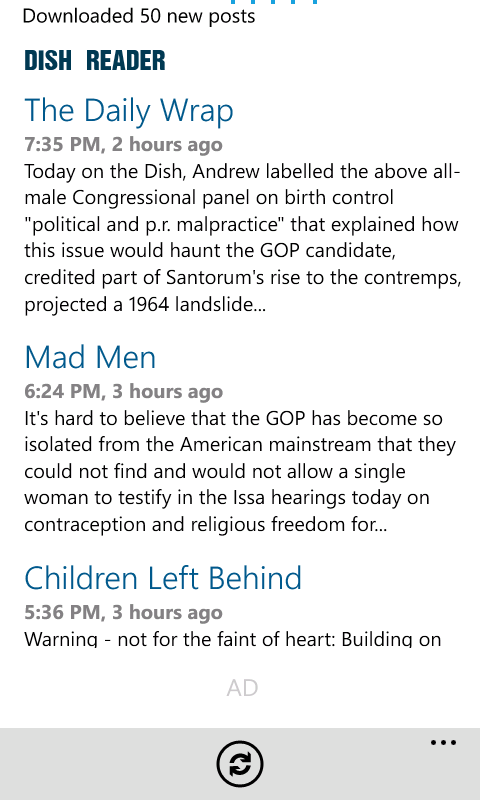
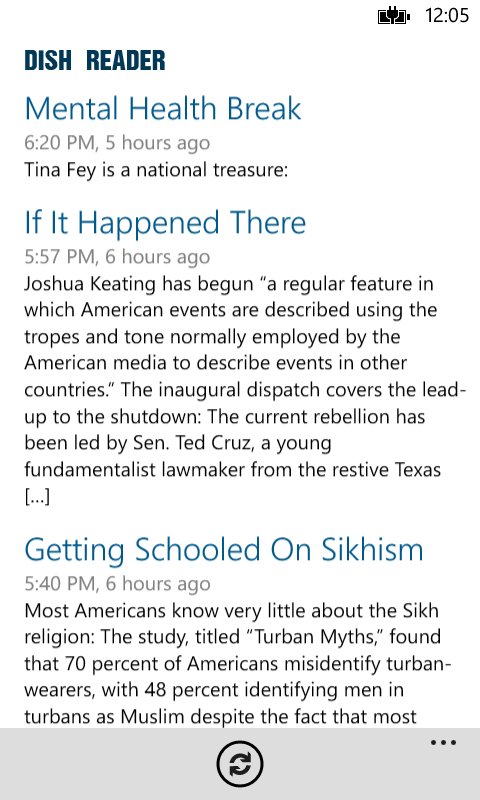
Update sharing, disable ads

diff --git a/DishReaderApp/SharePage.xaml b/DishReaderApp/SharePage.xaml
@@ -1,0 +1,44 @@
+<phone:PhoneApplicationPage
+    x:Class="DishReaderApp.SharePage"
+    xmlns="http://schemas.microsoft.com/winfx/2006/xaml/presentation"
+    xmlns:x="http://schemas.microsoft.com/winfx/2006/xaml"
+    xmlns:phone="clr-namespace:Microsoft.Phone.Controls;assembly=Microsoft.Phone"
+    xmlns:shell="clr-namespace:Microsoft.Phone.Shell;assembly=Microsoft.Phone"
+    xmlns:d="http://schemas.microsoft.com/expression/blend/2008"
+    xmlns:mc="http://schemas.openxmlformats.org/markup-compatibility/2006"
+    xmlns:toolkit="clr-namespace:Microsoft.Phone.Controls;assembly=Microsoft.Phone.Controls.Toolkit"
+    FontFamily="{StaticResource PhoneFontFamilyNormal}"
+    FontSize="{StaticResource PhoneFontSizeNormal}"
+    Foreground="{StaticResource PhoneForegroundBrush}"
+    SupportedOrientations="Portrait" Orientation="Portrait"
+    mc:Ignorable="d"
+    shell:SystemTray.IsVisible="True"
+    Style="{StaticResource TransitionPageStyle}"
+    toolkit:TiltEffect.IsTiltEnabled="True">
+
+    <!--LayoutRoot is the root grid where all page content is placed-->
+    <Grid x:Name="LayoutRoot" Background="Transparent">
+        <Grid.RowDefinitions>
+            <RowDefinition Height="Auto"/>
+            <RowDefinition Height="*"/>
+        </Grid.RowDefinitions>
+
+        <StackPanel x:Name="TitlePanel" Grid.Row="0" Margin="12,17,0,28">
+            <TextBlock x:Name="ApplicationTitle" Text="{Binding Source={StaticResource Strings}, Path=Resources.PageTitleShare}" Style="{StaticResource PhoneTextNormalStyle}"/>
+        </StackPanel>
+
+        <!--ContentPanel - place additional content here-->
+        <Grid x:Name="ContentPanel" Grid.Row="1" Margin="12,0,12,0">
+            <ListBox x:Name="ShareListBox" Margin="0,-6,-12,0" ItemsSource="{Binding ShareSources}" SelectionChanged="ShareListBox_OnSelectionChanged">
+                <ListBox.ItemTemplate>
+                    <DataTemplate>
+                        <StackPanel Margin="12,18,6,18" >
+                            <TextBlock Text="{Binding}" TextWrapping="Wrap" Style="{StaticResource PhoneTextExtraLargeStyle}" Margin="0" />
+                        </StackPanel>
+                    </DataTemplate>
+                </ListBox.ItemTemplate>
+            </ListBox>
+        </Grid>
+    </Grid>
+
+</phone:PhoneApplicationPage>

diff --git a/DishReaderApp/DetailsPage.xaml b/DishReaderApp/DetailsPage.xaml
@@ -21,18 +21,15 @@
             <RowDefinition Height="*"/>
         </Grid.RowDefinitions>
 
-        <phone:WebBrowser Grid.Row="0" x:Name="webBrowser1" IsScriptEnabled="True" Margin="0" />
+        <phone:WebBrowser Grid.Row="0" x:Name="webBrowser1" IsScriptEnabled="True" Margin="0" Source="{Binding Url}" />
     </Grid>
 
     <phone:PhoneApplicationPage.ApplicationBar>
         <shell:ApplicationBar IsVisible="True" IsMenuEnabled="True">
-            <shell:ApplicationBarIconButton x:Name="buttonEmail" IconUri="Images/appbar.feature.email.rest.png" Text="email" Click="buttonEmail_Click" />
+            <shell:ApplicationBarIconButton x:Name="buttonShare" IconUri="Images/appbar.share.rest.png" Text="share" Click="buttonShare_Click" />
             <shell:ApplicationBarIconButton x:Name="buttonRefresh" IconUri="Images/appbar.refresh.rest.png" Text="refresh" Click="buttonRefresh_Click" />
             <shell:ApplicationBarIconButton x:Name="buttonPrevious" IconUri="Images/appbar.back.rest.png" Text="previous" Click="buttonPrevious_Click" />
             <shell:ApplicationBarIconButton x:Name="buttonNext" IconUri="Images/appbar.next.rest.png" Text="next" Click="buttonNext_Click" />
-            <shell:ApplicationBar.MenuItems>
-                <shell:ApplicationBarMenuItem Text="share..." Click="menuItemShare_Click"/>
-            </shell:ApplicationBar.MenuItems>
         </shell:ApplicationBar>
     </phone:PhoneApplicationPage.ApplicationBar>
 

diff --git a/DishReaderApp/MainPage.xaml b/DishReaderApp/MainPage.xaml
@@ -41,7 +41,7 @@
         </ListBox>
 
         <!--<Image Grid.Row="2" Source="/Images/ad.png"/>-->
-        <my:AdControl Grid.Row="2" x:Name="AdBox" AdUnitId="79784" ApplicationId="bbb9b56b-6a13-4ef6-8308-f5fb22d2ab77" Margin="0" Width="480" Height="80" Style="{StaticResource AdControlStyle1}"/>
+        <!--<my:AdControl Grid.Row="2" x:Name="AdBox" AdUnitId="79784" ApplicationId="bbb9b56b-6a13-4ef6-8308-f5fb22d2ab77" Margin="0" Width="480" Height="80" Style="{StaticResource AdControlStyle1}"/>-->
     </Grid>
  
     <phone:PhoneApplicationPage.ApplicationBar>

diff --git a/DishReaderApp/DetailsPage.xaml.cs b/DishReaderApp/DetailsPage.xaml.cs
@@ -87,45 +87,31 @@ namespace DishReaderApp
             base.OnNavigatedFrom(e);
         }
 
-        private void buttonEmail_Click(object sender, EventArgs e)
+        private void buttonShare_Click(object sender, EventArgs e)
         {
-            try
-            {
-                var context = (FeedItemViewModel)this.DataContext;
-                Uri uri = webBrowser1.Source;
-                string url = uri != null ? uri.AbsoluteUri : context.Url.AbsolutePath;
+            var context = this.DataContext as FeedItemViewModel;
+            if (context == null)
+                return;
 
-                EmailComposeTask task = new EmailComposeTask();
-                task.Subject = context.Title;
-                task.Body = string.Format("{0}\n\n{1}", context.Summary, url);
-                task.To = string.Empty;
-                task.Show();
-            }
-            catch
+            App.ViewModel.Item = new ShareViewModel
             {
-                // prevent exceptions from double-click
-            }
-        }
+                Url = context.Url.AbsoluteUri,
+                Title = context.Title,
+                Summary = context.Summary
+            };
 
-        private void menuItemShare_Click(object sender, EventArgs e)
-        {
-            try
+            var sharePageUri = new Uri("/SharePage.xaml", UriKind.Relative);
+            Dispatcher.BeginInvoke(() =>
             {
-                var context = (FeedItemViewModel)this.DataContext;
-                Uri url = webBrowser1.Source ?? context.Url;
-
-                var task = new ShareLinkTask()
+                try
                 {
-                    Title = context.Title,
-                    Message = context.Summary,
-                    LinkUri = url
-                };
-                task.Show();
-            }
-            catch (Exception)
-            {
-                // fast-clicking can result in exception, so we just handle it
-            }
+                    NavigationService.Navigate(sharePageUri);
+                }
+                catch (Exception)
+                {
+                    // prevent double-click errors
+                }
+            });
         }
 
         private void buttonRefresh_Click(object sender, EventArgs e)
@@ -149,7 +135,6 @@ namespace DishReaderApp
             {
                 currentIndex = index;
                 DataContext = App.ViewModel.AllFeedItems[currentIndex];
-                webBrowser1.Source = ((FeedItemViewModel)DataContext).Url;
                 EnableOrDisableNavigation(currentIndex);
 
                 // item should not be highlighted anymore

diff --git a/DishReaderApp/Resources/Strings.Designer.cs b/DishReaderApp/Resources/Strings.Designer.cs
@@ -1,7 +1,7 @@
 //------------------------------------------------------------------------------
 // <auto-generated>
 //     This code was generated by a tool.
-//     Runtime Version:4.0.30319.239
+//     Runtime Version:4.0.30319.32559
 //
 //     Changes to this file may cause incorrect behavior and will be lost if
 //     the code is regenerated.
@@ -295,11 +295,56 @@ namespace DishReaderApp.Resources {
         }
         
         /// <summary>
+        ///   Looks up a localized string similar to SHARE.
+        /// </summary>
+        public static string PageTitleShare {
+            get {
+                return ResourceManager.GetString("PageTitleShare", resourceCulture);
+            }
+        }
+        
+        /// <summary>
         ///   Looks up a localized string similar to Please rate and comment on this app in Marketplace.
         /// </summary>
         public static string Rate {
             get {
                 return ResourceManager.GetString("Rate", resourceCulture);
+            }
+        }
+        
+        /// <summary>
+        ///   Looks up a localized string similar to Clipboard.
+        /// </summary>
+        public static string ShareClipboard {
+            get {
+                return ResourceManager.GetString("ShareClipboard", resourceCulture);
+            }
+        }
+        
+        /// <summary>
+        ///   Looks up a localized string similar to Email.
+        /// </summary>
+        public static string ShareEmail {
+            get {
+                return ResourceManager.GetString("ShareEmail", resourceCulture);
+            }
+        }
+        
+        /// <summary>
+        ///   Looks up a localized string similar to Social networks.
+        /// </summary>
+        public static string ShareSocialNetwork {
+            get {
+                return ResourceManager.GetString("ShareSocialNetwork", resourceCulture);
+            }
+        }
+        
+        /// <summary>
+        ///   Looks up a localized string similar to Text message.
+        /// </summary>
+        public static string ShareTextMessaging {
+            get {
+                return ResourceManager.GetString("ShareTextMessaging", resourceCulture);
             }
         }
         

diff --git a/DishReaderApp/ShareHelper.cs b/DishReaderApp/ShareHelper.cs
@@ -1,0 +1,70 @@
+using System;
+using System.Windows;
+using DishReaderApp.ViewModels;
+using Microsoft.Phone.Tasks;
+
+namespace DishReaderApp
+{
+    static internal class ShareHelper
+    {
+        internal static void ShareViaEmail(ShareViewModel model)
+        {
+            try
+            {
+                var task = new EmailComposeTask
+                {
+                    Subject = model.Title,
+                    Body = string.Format("{0}\n\n{1}", model.Summary, model.Url)
+                };
+                task.Show();
+            }
+            catch (Exception)
+            {
+                // fast-clicking can result in exception, so we just handle it
+            }
+        }
+
+        internal static void ShareViaSocial(ShareViewModel model)
+        {
+            try
+            {
+                var task = new ShareLinkTask()
+                {
+                    Title = model.Title,
+                    Message = model.Title,
+                    LinkUri = new Uri(model.Url, UriKind.Absolute)
+                };
+                task.Show();
+            }
+            catch (Exception)
+            {
+                // fast-clicking can result in exception, so we just handle it
+            }
+        }
+
+        internal static void ShareViaSms(ShareViewModel model)
+        {
+            try
+            {
+                var task = new SmsComposeTask()
+                {
+                    Body = model.Title + "\n" + model.Url
+                };
+                task.Show();
+            }
+            catch (Exception)
+            {
+                // fast-clicking can result in exception, so we just handle it
+            }
+        }
+
+        internal static void ShareViaClipBoard(ShareViewModel model)
+        {
+            string text = model.Title + "\n" + model.Url;
+            if (MessageBox.Show(text, "Copy to Clipboard?", MessageBoxButton.OKCancel) == MessageBoxResult.OK)
+            {
+                Clipboard.SetText(text);
+            }
+        }
+    }
+}

diff --git a/DishReaderApp/SharePage.xaml.cs b/DishReaderApp/SharePage.xaml.cs
@@ -1,0 +1,45 @@
+using System.Collections.Generic;
+using System.Windows.Controls;
+using DishReaderApp;
+using DishReaderApp.Resources;
+using Microsoft.Phone.Controls;
+
+namespace DishReaderApp
+{
+    public partial class SharePage : PhoneApplicationPage
+    {
+        public List<string> ShareSources = new List<string>
+        {
+            Strings.ShareEmail,
+            Strings.ShareSocialNetwork,
+            Strings.ShareTextMessaging,
+            Strings.ShareClipboard
+        };
+
+        public SharePage()
+        {
+            InitializeComponent();
+            ShareListBox.ItemsSource = ShareSources;
+        }
+
+        private void ShareListBox_OnSelectionChanged(object sender, SelectionChangedEventArgs e)
+        {
+            var selectedItem = ShareListBox.SelectedItem as string;
+
+            if (selectedItem == null)
+                return;
+
+            var item = App.ViewModel.Item;
+            if (selectedItem == Strings.ShareEmail)
+                ShareHelper.ShareViaEmail(item);
+            else if (selectedItem == Strings.ShareSocialNetwork)
+                ShareHelper.ShareViaSocial(item);
+            else if (selectedItem == Strings.ShareTextMessaging)
+                ShareHelper.ShareViaSms(item);
+            else if (selectedItem == Strings.ShareClipboard)
+                ShareHelper.ShareViaClipBoard(item);
+
+            ShareListBox.SelectedIndex = -1;
+        }
+    }
+}

diff --git a/DishReaderApp/ViewModels/AllFeedItemsViewModel.cs b/DishReaderApp/ViewModels/AllFeedItemsViewModel.cs
@@ -15,6 +15,7 @@ namespace DishReaderApp.ViewModels
     {
         private readonly FeedRepository feedRepository = new FeedRepository(new Uri(@"http://feeds.feedburner.com/andrewsullivan/rApM"));
 
+        public ShareViewModel Item { get; set; }
         public ObservableCollection<FeedItemViewModel> AllFeedItems { get; private set; }
         public bool IsDataLoaded { get; set; }
         public DateTime LastUpdated { get; set; }

diff --git a/DishReaderApp/Properties/AssemblyInfo.cs b/DishReaderApp/Properties/AssemblyInfo.cs
@@ -31,6 +31,6 @@ using System.Resources;
 //
 // You can specify all the values or you can default the Revision and Build Numbers 
 // by using the '*' as shown below:
-[assembly: AssemblyVersion("1.7.0")]
-[assembly: AssemblyFileVersion("1.7.0")]
+[assembly: AssemblyVersion("1.8.0")]
+[assembly: AssemblyFileVersion("1.8.0")]
 [assembly: NeutralResourcesLanguageAttribute("en-US")]

diff --git a/DishReaderApp/ViewModels/ShareViewModel.cs b/DishReaderApp/ViewModels/ShareViewModel.cs
@@ -1,0 +1,9 @@
+namespace DishReaderApp.ViewModels
+{
+    public class ShareViewModel
+    {
+        public string Url { get; set; }
+        public string Title { get; set; }
+        public string Summary { get; set; }
+    }
+}
